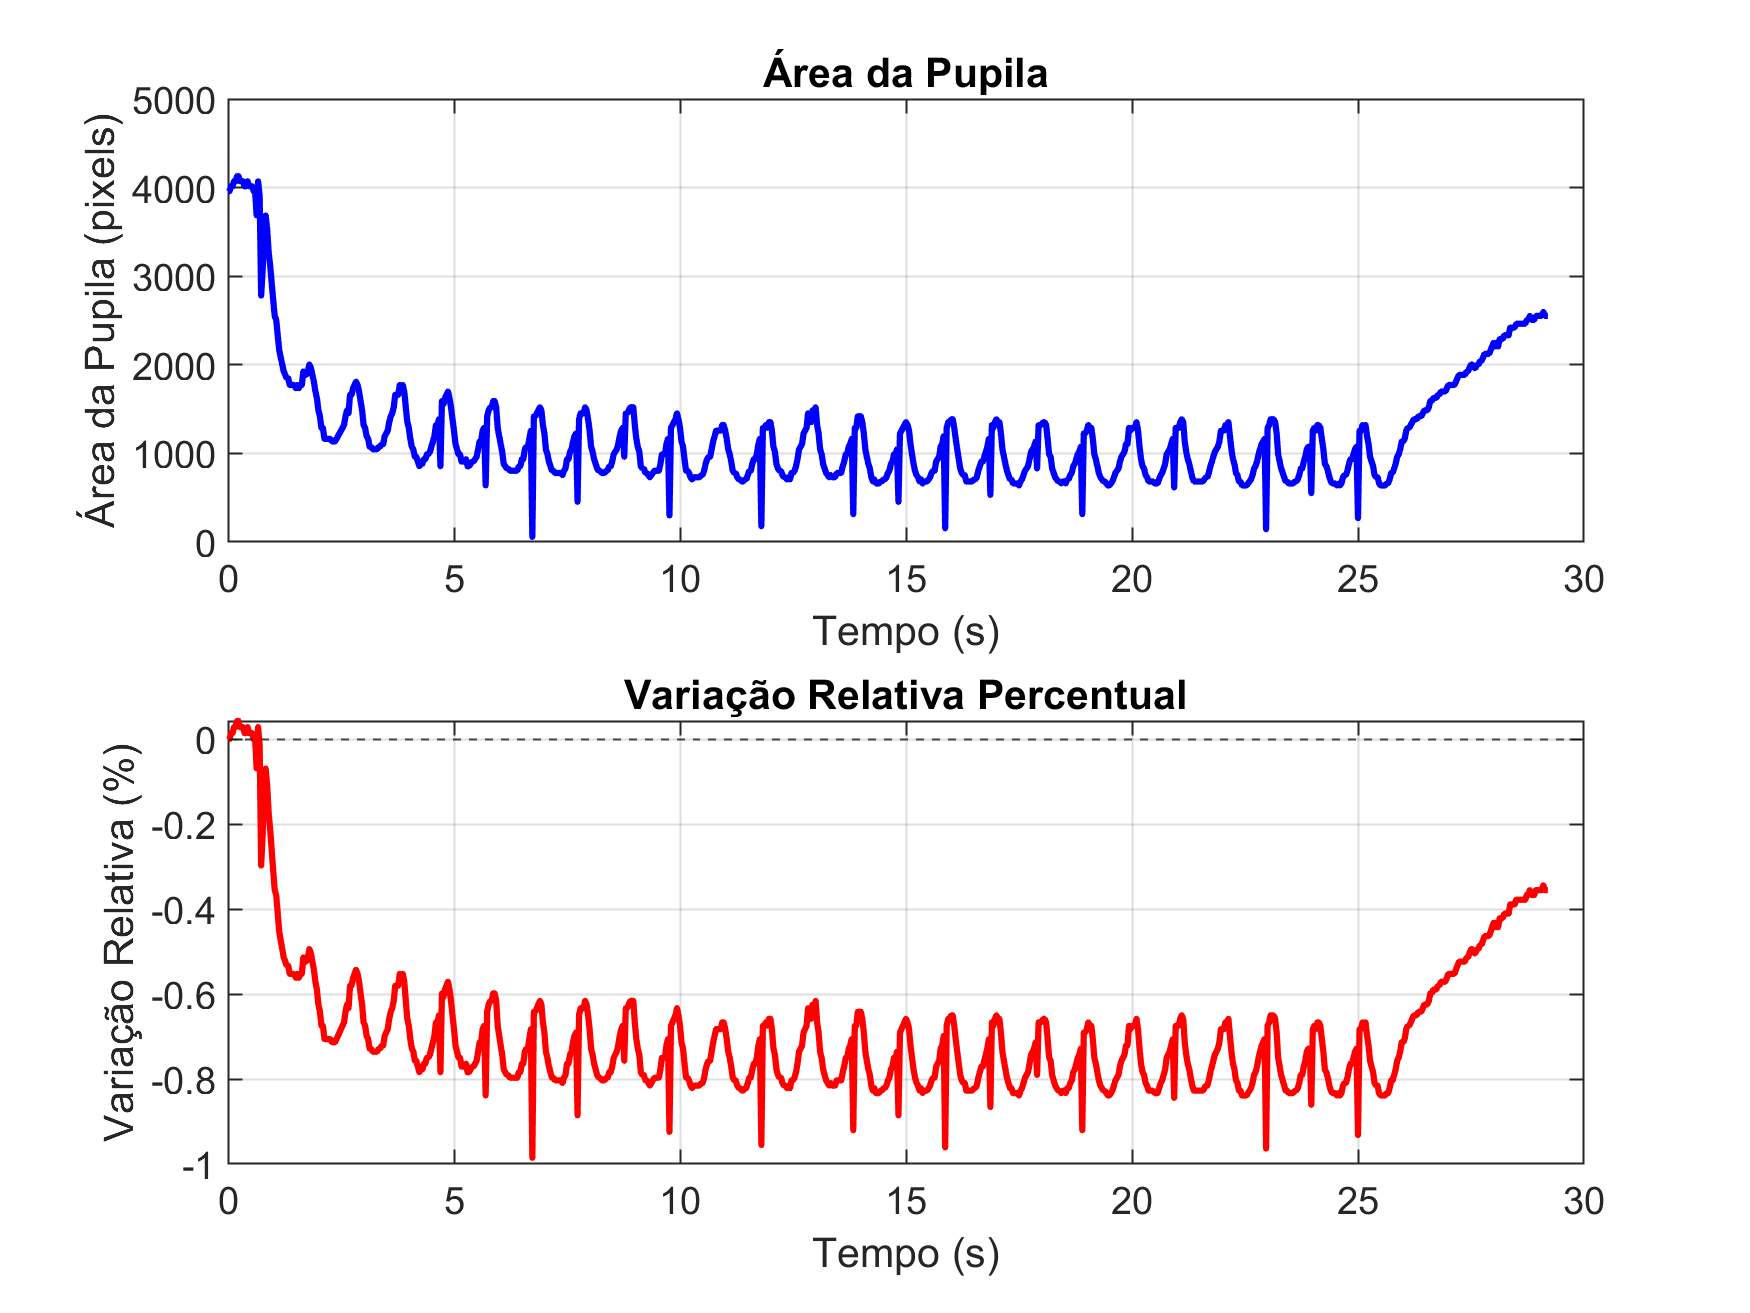
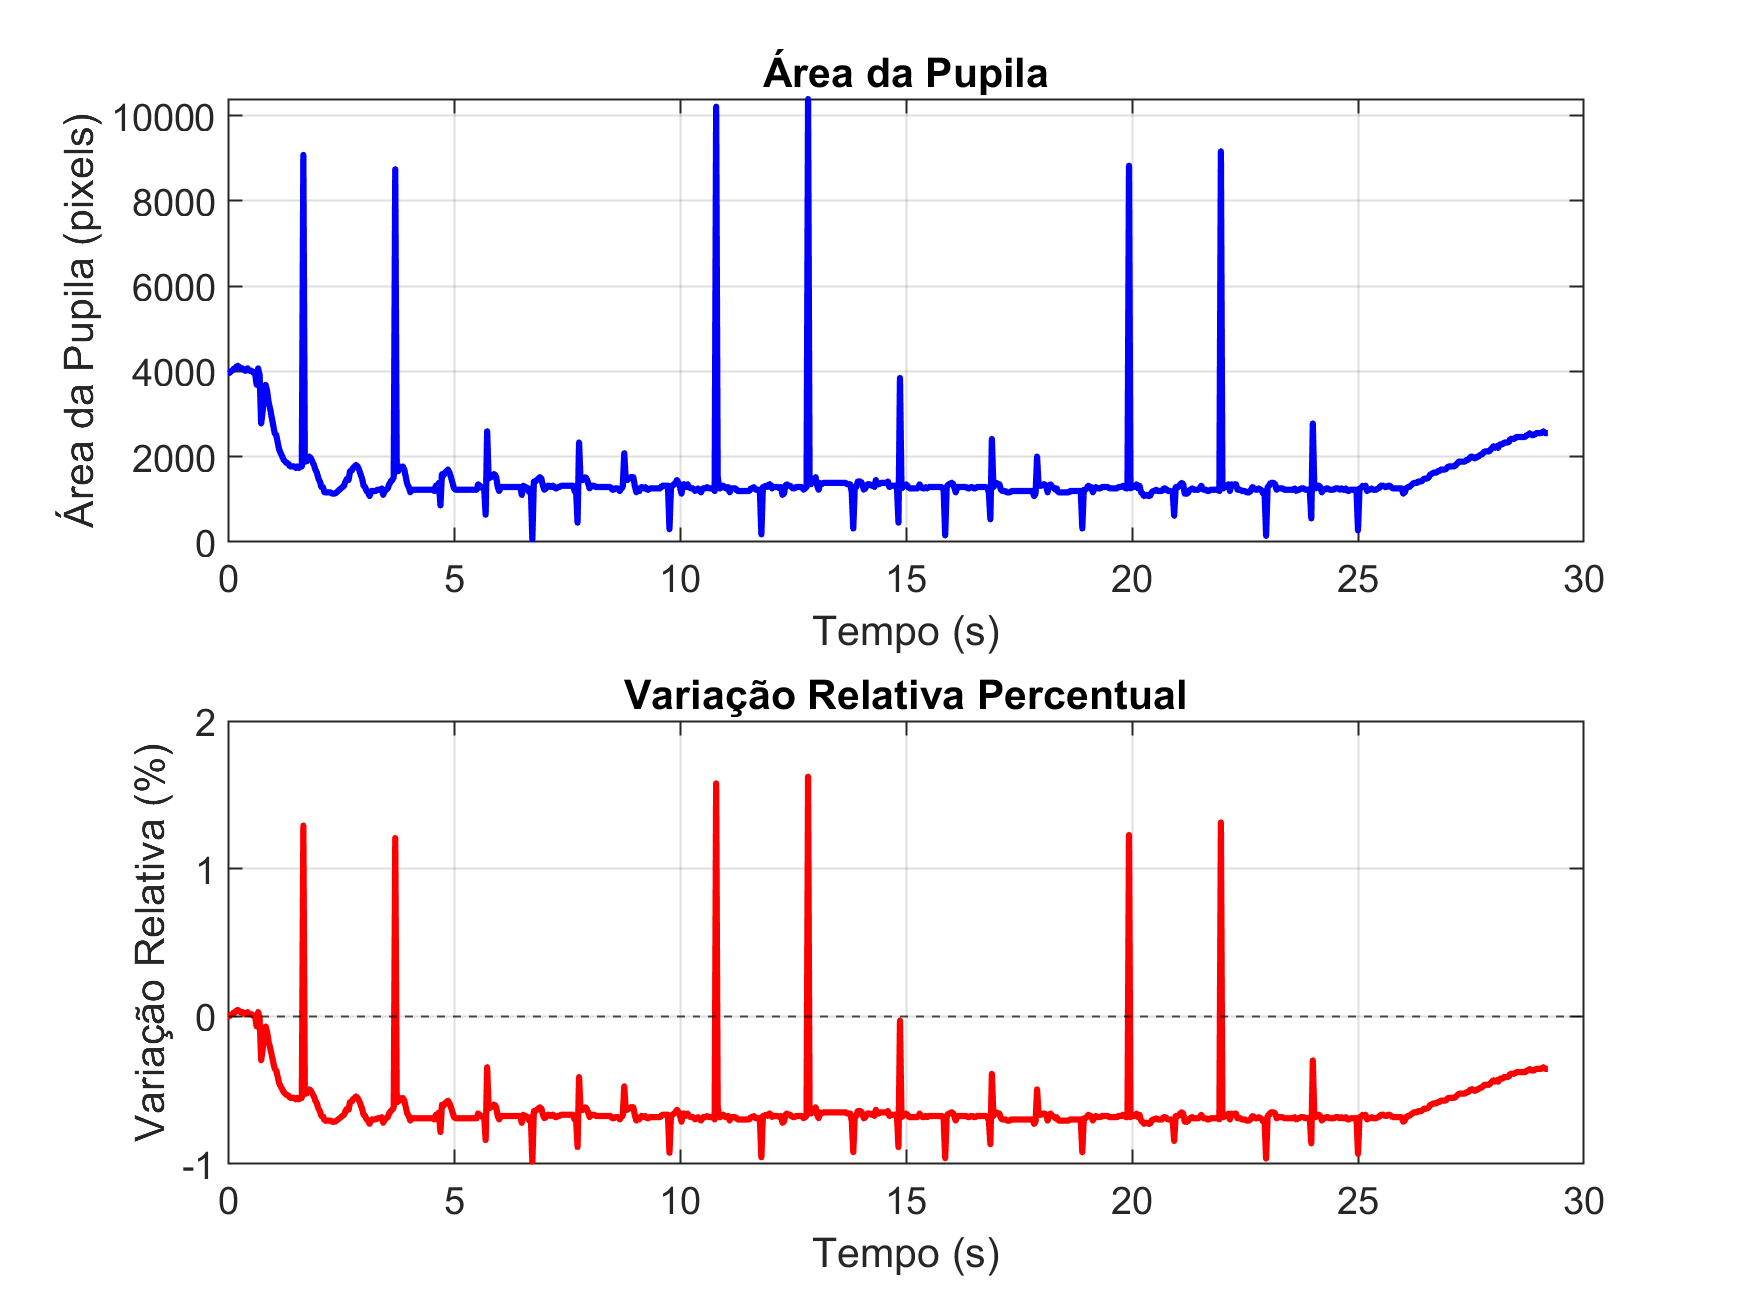
Add files via upload

diff --git a/scritp_medicao.m b/scritp_medicao.m
@@ -1,12 +1,17 @@
 clc; clear; close all;
 
 videoFile = 'pupil01.mp4';
-outputVideoFile = strcat('_', strrep(videoFile,'.mp4','_circle.mp4'));
+outputVideoFile = strcat('video/_', strrep(videoFile,'.mp4','_circle.mp4'));
+greyVidFile = strcat('video/_', strrep(videoFile,'.mp4','_grey.mp4'));
+binVidFile = strcat('video/_', strrep(videoFile,'.mp4','_bin.mp4'));
+cleanVidFile = strcat('video/_', strrep(videoFile,'.mp4','_clean.mp4'));
+invVidFile = strcat('video/_', strrep(videoFile,'.mp4','_inv.mp4'));
+bboxVidFile = strcat('video/_', strrep(videoFile,'.mp4','_bboxes.mp4'));
 
 video = VideoReader(videoFile);
 firstFrame = readFrame(video);
 
-[center, ~, st_area] = find_pupil(firstFrame);
+[center, ~, st_area] = find_pupil(firstFrame, false);
 
 
 pupilArea = [video.NumFrames];
@@ -17,12 +22,27 @@ video = VideoReader(videoFile);
 outputVideo = VideoWriter(outputVideoFile, 'MPEG-4');
 outputVideo.FrameRate = video.FrameRate;
 open(outputVideo);
+greyVid = VideoWriter(greyVidFile, 'MPEG-4');
+greyVid.FrameRate = video.FrameRate;
+open(greyVid);
+binVid = VideoWriter(binVidFile, 'MPEG-4');
+binVid.FrameRate = video.FrameRate;
+open(binVid);
+cleanVid = VideoWriter(cleanVidFile, 'MPEG-4');
+cleanVid.FrameRate = video.FrameRate;
+open(cleanVid);
+invVid = VideoWriter(invVidFile, 'MPEG-4');
+invVid.FrameRate = video.FrameRate;
+open(invVid);
+bboxVid = VideoWriter(bboxVidFile, 'MPEG-4');
+bboxVid.FrameRate = video.FrameRate;
+open(bboxVid);
 
 while hasFrame(video)
     frame = readFrame(video);
     frameCount = frameCount + 1;
-
-    [curr_center, curr_radius, curr_area] = find_pupil(frame);
+    saveimg = rand(1) < 0.01;
+    [curr_center, curr_radius, curr_area] = find_pupil(frame, true, greyVid, binVid, cleanVid, invVid, bboxVid, saveimg, frameCount);
 
     frame = insertShape(frame, 'Circle', [curr_center, curr_radius], ...
                         'Color', 'green', 'LineWidth', 2);
@@ -32,6 +52,11 @@ while hasFrame(video)
 end
 
 close(outputVideo);
+close(greyVid);
+close(binVid);
+close(cleanVid);
+close(invVid);
+close(bboxVid);
 
 relativeChange = (pupilArea - st_area) / st_area;
 time = linspace(0, video.NumFrames / video.FrameRate, length(pupilArea));

diff --git a/find_pupil.m b/find_pupil.m
@@ -1,6 +1,6 @@
-function [center, radius, area] = find_pupil(eyeImg)
+function [center, radius, area] = find_pupil(eyeImg, saveVid, grayVid, binVid, cleanVid, invVid, bboxVid, saveImg, frameCount)
     sensitivity = 0.000001;
-    minArea = 100;
+    minArea = 2000;
     
     grayImg = rgb2gray(eyeImg);
     
@@ -9,6 +9,7 @@ function [center, radius, area] = find_pupil(eyeImg)
                        'ForegroundPolarity', 'dark');
     
     cleaned = bwareaopen(binary, minArea);
+
     inverted = imcomplement(cleaned);
     
     [labeled, ~] = bwlabel(inverted);
@@ -45,4 +46,29 @@ function [center, radius, area] = find_pupil(eyeImg)
              pupilRegion.BoundingBox(2)+(pupilRegion.BoundingBox(4)/2)];
     radius = mean([pupilRegion.BoundingBox(3), pupilRegion.BoundingBox(4)]) / 2;
     area = pi * (radius ^ 2);
+
+    bboxesImg = im2uint8(inverted);
+    for k = 1:length(stats)
+        bboxesImg = insertShape(bboxesImg, 'rectangle', stats(k).BoundingBox, ...
+                    'Color', 'green', 'LineWidth', 2);
+    end
+    if nargin > 1 && saveVid
+        writeVideo(grayVid, grayImg);
+        writeVideo(binVid, im2uint8(binary));
+        writeVideo(cleanVid, im2uint8(cleaned));
+        writeVideo(invVid, im2uint8(inverted));
+        writeVideo(bboxVid, bboxesImg);
+    end
+
+    if nargin > 7 && saveImg && saveVid
+        baseFilename = sprintf('/img/pupil_detection_%d', frameCount);
+        
+        imwrite(eyeImg, [baseFilename '_original.png']);
+        
+        imwrite(grayImg, [baseFilename '_gray.png']);
+        imwrite(binary, [baseFilename '_binary.png']);
+        imwrite(cleaned, [baseFilename '_cleaned.png']);
+        imwrite(inverted, [baseFilename '_inverted.png']);
+        imwrite(bboxesImg, [baseFilename '_bboxes.png']);
+    end
 end
